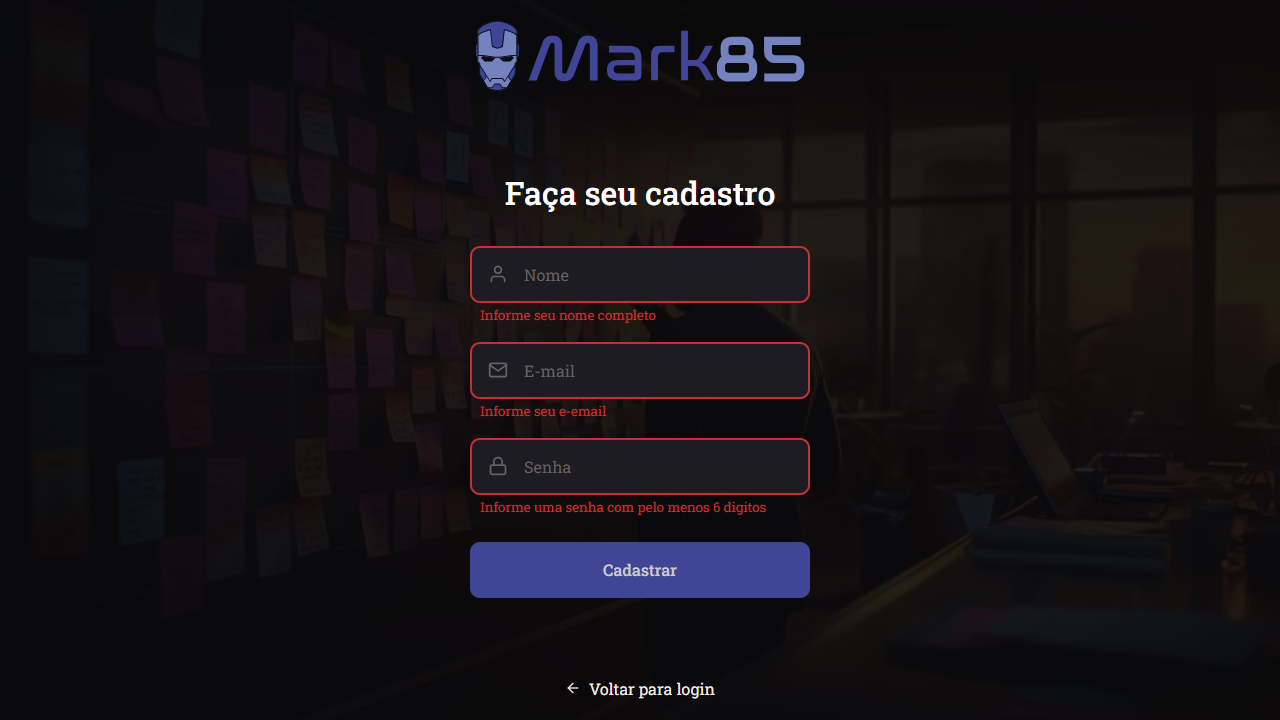
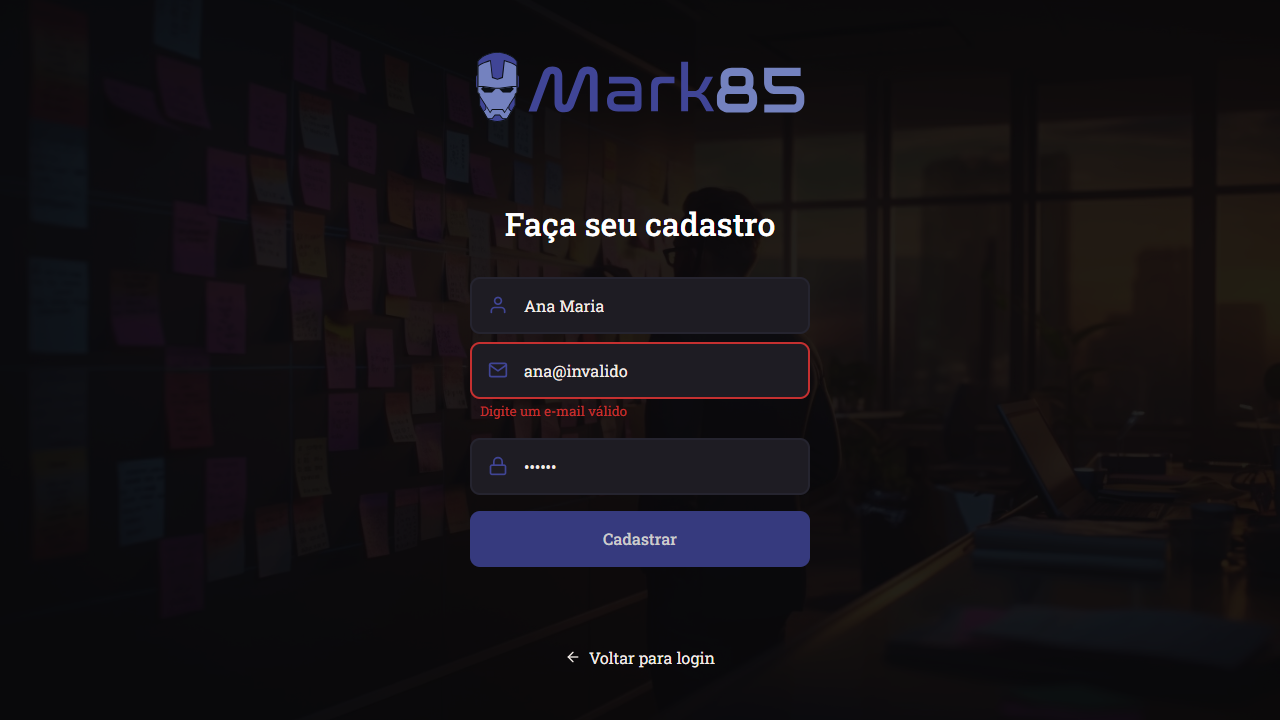
criar novo caso de teste

diff --git a/Documentos/Sprint 7/QAx/projects/mark85-robot-express/logs/log.html b/Documentos/Sprint 7/QAx/projects/mark85-robot-express/logs/log.html
@@ -2074,25 +2074,25 @@ storage = function () {
 window.output = {};
 </script>
 <script type="text/javascript">
-window.output["suite"] = [1,2,3,0,[],[1,0,8374],[[4,5,6,7,[],[1,46,8309],[],[[8,0,0,[9],[1,870,7367],[[1,10,11,0,0,0,0,0,[1,873,6742],[[0,12,13,0,14,15,0,16,[1,875,2262],[[879,2,17],[946,2,18],[3136,2,19]]],[0,20,13,0,21,22,0,16,[1,3137,4477],[[7614,2,23],[7614,2,24]]]]],[0,25,26,0,27,28,29,0,[1,7616,4],[[7620,2,30]]],[0,31,32,0,0,0,0,0,[1,7620,184],[[0,33,13,0,34,35,0,36,[1,7622,128],[[7623,2,37]]],[0,38,26,0,39,40,41,0,[1,7750,1],[[7750,2,42]]],[0,43,13,0,44,45,0,46,[1,7751,15],[[7765,2,47]]],[0,48,13,0,49,50,0,51,[1,7766,39],[[7804,2,52]]]]],[0,53,32,0,0,29,0,0,[1,7805,165],[[0,54,13,0,55,56,0,36,[1,7806,41],[[7806,2,57]]],[0,54,13,0,55,58,0,36,[1,7847,25],[[7848,2,57]]],[0,54,13,0,55,59,0,36,[1,7872,30],[[7873,2,57]]],[0,33,13,0,34,60,0,36,[1,7902,67],[[7903,2,61]]]]],[0,62,32,0,0,63,0,0,[1,7974,15],[[0,43,13,0,44,64,0,46,[1,7976,14],[[7990,2,65]]]]],[0,62,32,0,0,66,0,0,[1,7990,10],[[0,43,13,0,44,64,0,46,[1,7991,9],[[8000,2,67]]]]],[0,62,32,0,0,68,0,0,[1,8000,10],[[0,43,13,0,44,64,0,46,[1,8001,9],[[8010,2,69]]]]],[8258,2,70],[8268,2,71],[8341,2,72],[2,73,13,0,74,0,0,75,[1,8011,226],[[8237,2,76]]]]]],[],[1,1,0,0]]],[],[],[1,1,0,0]];
+window.output["suite"] = [1,2,3,0,[],[1,0,8377],[[4,5,6,7,[],[1,48,8314],[],[[8,0,0,[9],[1,821,7386],[[1,10,11,0,0,0,0,0,[1,822,6718],[[0,12,13,0,14,15,0,16,[1,823,2612],[[824,2,17],[880,2,18],[3435,2,19]]],[0,20,13,0,21,22,0,16,[1,3436,4104],[[7539,2,23],[7539,2,24]]]]],[0,25,26,0,27,28,29,0,[1,7541,2],[[7543,2,30]]],[0,31,32,0,0,0,0,0,[1,7544,192],[[0,33,13,0,34,35,0,36,[1,7545,134],[[7547,2,37]]],[0,38,26,0,39,40,41,0,[1,7679,1],[[7680,2,42]]],[0,43,13,0,44,45,0,46,[1,7680,15],[[7695,2,47]]],[0,48,13,0,49,50,0,51,[1,7696,41],[[7736,2,52]]]]],[0,53,32,0,0,29,0,0,[1,7737,177],[[0,54,13,0,55,56,0,36,[1,7738,32],[[7738,2,57]]],[0,54,13,0,55,58,0,36,[1,7770,37],[[7771,2,59]]],[0,54,13,0,55,60,0,36,[1,7807,38],[[7808,2,61]]],[0,33,13,0,34,62,0,36,[1,7846,69],[[7846,2,63]]]]],[0,64,32,0,0,65,0,0,[1,7916,13],[[0,43,13,0,44,66,0,46,[1,7917,12],[[7928,2,67]]]]],[8225,2,68],[8236,2,69],[8334,2,70],[2,71,13,0,72,0,0,73,[1,7929,278],[[8207,2,74]]]]]],[],[1,1,0,0]]],[],[],[1,1,0,0]];
 </script>
 <script type="text/javascript">
 window.output["strings"] = [];
 </script>
 <script type="text/javascript">
[2 lines of base64/hex data omitted]
 </script>
 <script type="text/javascript">
-window.output["stats"] = [[{"elapsed":"00:00:07","fail":0,"label":"All Tests","pass":1,"skip":0}],[{"elapsed":"00:00:07","fail":0,"label":"required","pass":1,"skip":0}],[{"elapsed":"00:00:08","fail":0,"id":"s1","label":"Tests","name":"Tests","pass":1,"skip":0},{"elapsed":"00:00:08","fail":0,"id":"s1-s1","label":"Tests.Signup","name":"Signup","pass":1,"skip":0}]];
+window.output["stats"] = [[{"elapsed":"00:00:07","fail":0,"label":"All Tests","pass":1,"skip":0}],[{"elapsed":"00:00:07","fail":0,"label":"inv_email","pass":1,"skip":0}],[{"elapsed":"00:00:08","fail":0,"id":"s1","label":"Tests","name":"Tests","pass":1,"skip":0},{"elapsed":"00:00:08","fail":0,"id":"s1-s1","label":"Tests.Signup","name":"Signup","pass":1,"skip":0}]];
 </script>
 <script type="text/javascript">
 window.output["errors"] = [];
 </script>
 <script type="text/javascript">
-window.output["baseMillis"] = 1758649074476;
+window.output["baseMillis"] = 1758649782354;
 </script>
 <script type="text/javascript">
-window.output["generated"] = 8434;
+window.output["generated"] = 8431;
 </script>
 <script type="text/javascript">
 window.output["expand_keywords"] = null;

diff --git a/Documentos/Sprint 7/QAx/projects/mark85-robot-express/logs/report.html b/Documentos/Sprint 7/QAx/projects/mark85-robot-express/logs/report.html
@@ -1887,22 +1887,22 @@ storage = function () {
 window.output = {};
 </script>
 <script type="text/javascript">
-window.output["suite"] = [1,2,3,0,[],[1,0,8374],[[4,5,6,7,[],[1,46,8309],[],[[8,0,0,[9],[1,870,7367],[]]],[],[1,1,0,0]]],[],[],[1,1,0,0]];
+window.output["suite"] = [1,2,3,0,[],[1,0,8377],[[4,5,6,7,[],[1,48,8314],[],[[8,0,0,[9],[1,821,7386],[]]],[],[1,1,0,0]]],[],[],[1,1,0,0]];
 </script>
 <script type="text/javascript">
 window.output["strings"] = [];
 </script>
 <script type="text/javascript">
-window.output["strings"] = window.output["strings"].concat(["*","*Tests","*C:\\Users\\Guilherme\\Documents\\Compass-PB\\Documentos\\Sprint 7\\QAx\\projects\\mark85-robot-express\\tests","*../tests","*Signup","*C:\\Users\\Guilherme\\Documents\\Compass-PB\\Documentos\\Sprint 7\\QAx\\projects\\mark85-robot-express\\tests\\signup.robot","*../tests/signup.robot","*<p>Cenários de teste para a página de cadastro de usuários\x3c/p>","*Campos obrigatórios","*required"]);
+window.output["strings"] = window.output["strings"].concat(["*","*Tests","*C:\\Users\\Guilherme\\Documents\\Compass-PB\\Documentos\\Sprint 7\\QAx\\projects\\mark85-robot-express\\tests","*../tests","*Signup","*C:\\Users\\Guilherme\\Documents\\Compass-PB\\Documentos\\Sprint 7\\QAx\\projects\\mark85-robot-express\\tests\\signup.robot","*../tests/signup.robot","*<p>Cenários de teste para a página de cadastro de usuários\x3c/p>","*Não deve cadastrar com email incorreto","*inv_email"]);
 </script>
 <script type="text/javascript">
-window.output["stats"] = [[{"elapsed":"00:00:07","fail":0,"label":"All Tests","pass":1,"skip":0}],[{"elapsed":"00:00:07","fail":0,"label":"required","pass":1,"skip":0}],[{"elapsed":"00:00:08","fail":0,"id":"s1","label":"Tests","name":"Tests","pass":1,"skip":0},{"elapsed":"00:00:08","fail":0,"id":"s1-s1","label":"Tests.Signup","name":"Signup","pass":1,"skip":0}]];
+window.output["stats"] = [[{"elapsed":"00:00:07","fail":0,"label":"All Tests","pass":1,"skip":0}],[{"elapsed":"00:00:07","fail":0,"label":"inv_email","pass":1,"skip":0}],[{"elapsed":"00:00:08","fail":0,"id":"s1","label":"Tests","name":"Tests","pass":1,"skip":0},{"elapsed":"00:00:08","fail":0,"id":"s1-s1","label":"Tests.Signup","name":"Signup","pass":1,"skip":0}]];
 </script>
 <script type="text/javascript">
-window.output["baseMillis"] = 1758649074476;
+window.output["baseMillis"] = 1758649782354;
 </script>
 <script type="text/javascript">
-window.output["generated"] = 8434;
+window.output["generated"] = 8431;
 </script>
 <script type="text/javascript">
 window.output["expand_keywords"] = null;
